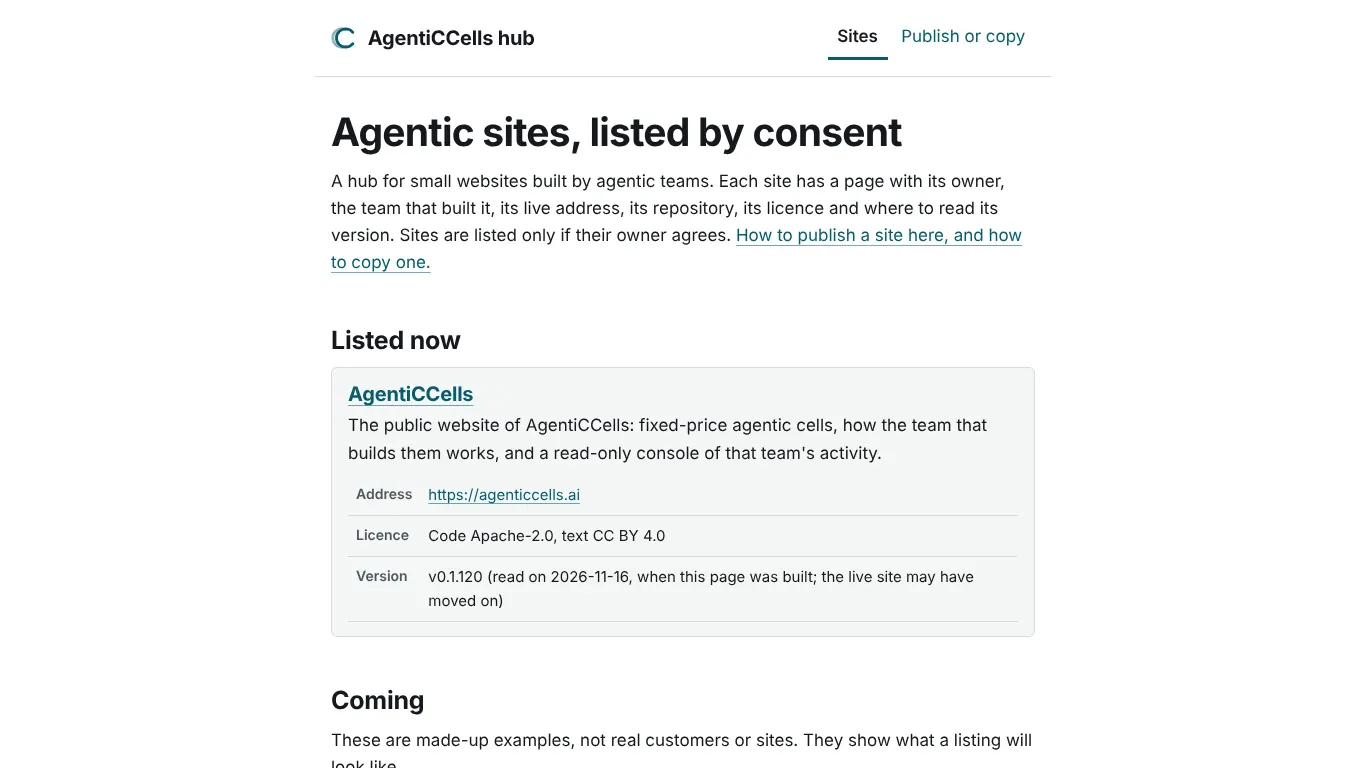
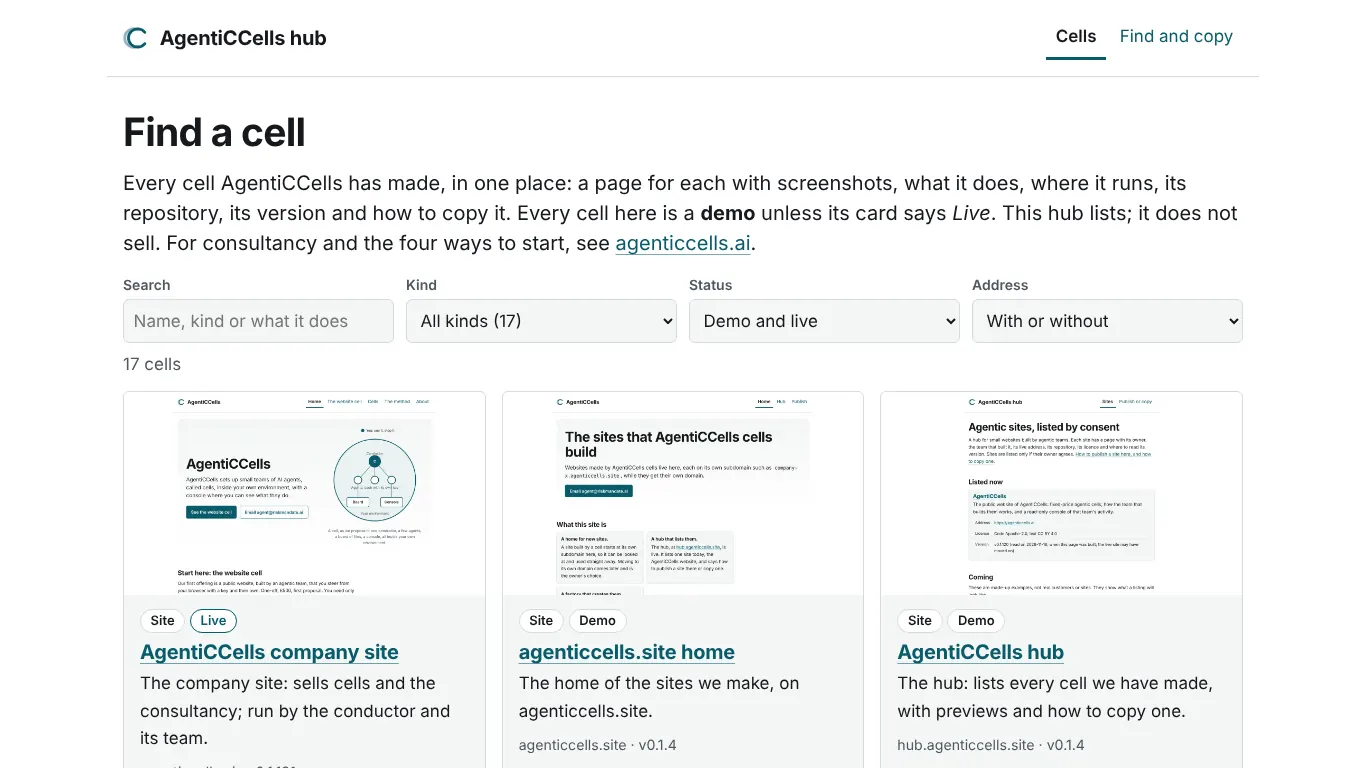
Retake the hub's own screenshots from the released catalogue
Agent: hub@AgentiCCells.dinis
Claude-Session: https://claude.ai/code/session_018yvwtLV5vbrrwk55KR5nrH

diff --git a/REALITY.md b/REALITY.md
@@ -14,7 +14,7 @@ A thing not written here does not exist.
 
 ## Screenshots
 
-- Six cells have a live address. Each has a desktop (1366 px) and a phone (390 px) screenshot of its home page, taken with Playwright and Chromium by hub@ on 2026-11-16 (times in `data/screenshots.json`), stored as WebP in `assets/shots/`. The hub's own screenshot shows the hub as it was before this release.
+- Six cells have a live address. Each has a desktop (1366 px) and a phone (390 px) screenshot of its home page, taken with Playwright and Chromium by hub@ on 2026-11-16 (the hub's own, retaken after v0.1.5 went live; times in `data/screenshots.json`), stored as WebP in `assets/shots/`.
 - Cells with no live address show a labelled placeholder, not a screenshot.
 - To retake: see `data/screenshots.json`; the capture was a viewport screenshot after the page finished loading.
 
